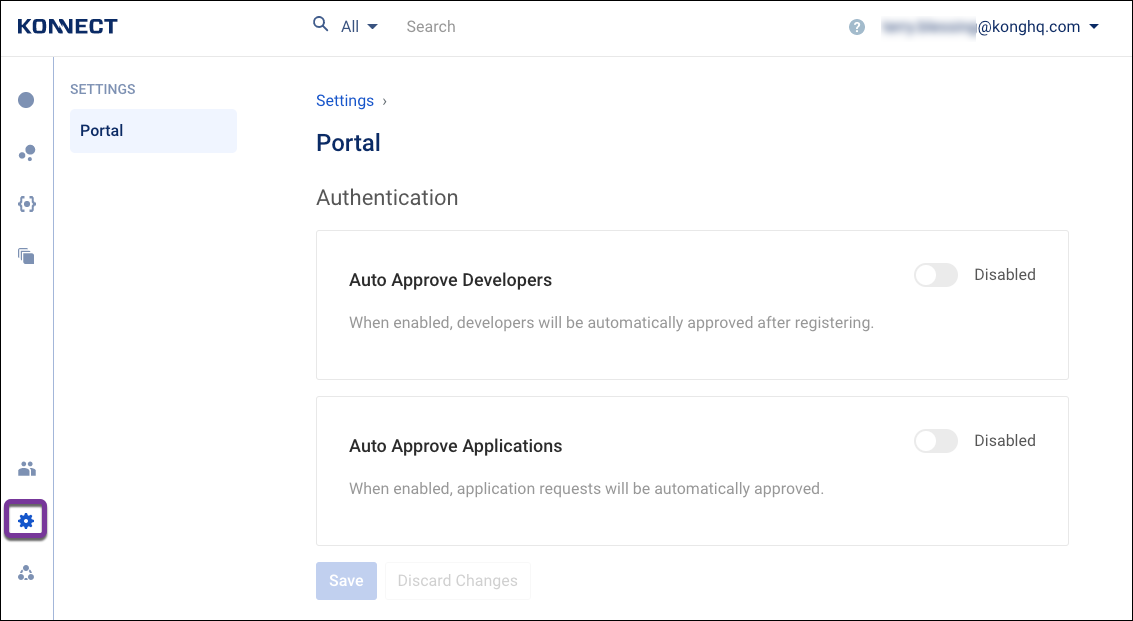
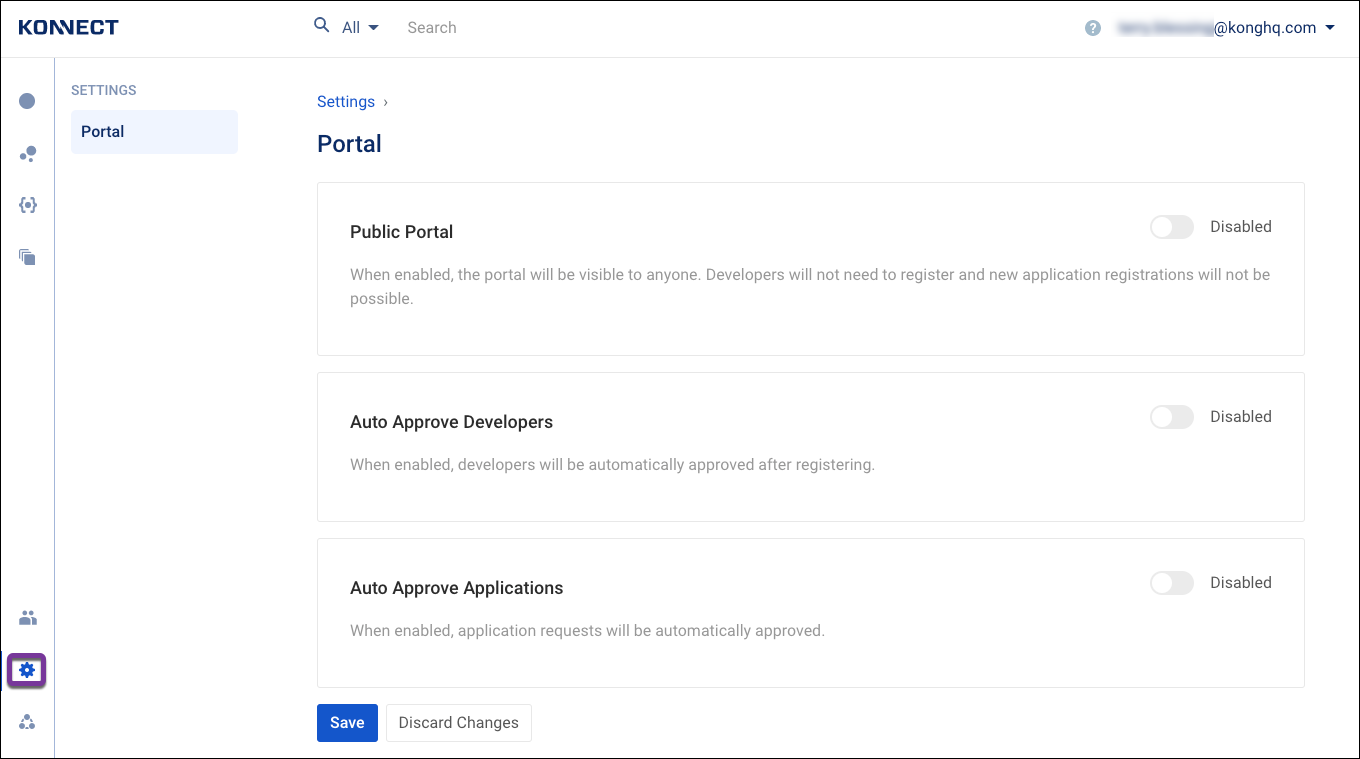
Konnect Public Dev Portal (#2574)
* update screenshot for new feature

* update nav, stub topic

* Update app/konnect/dev-portal/administrators/public-portal.md

* Lena feedback

* Jason info from slack

diff --git a/app/konnect/dev-portal/administrators/public-portal.md b/app/konnect/dev-portal/administrators/public-portal.md
@@ -1,0 +1,31 @@
+---
+title: Public Developer Portal
+no_version: true
+---
+
+Enable public access to your Dev Portal. With **Public Portal** enabled, anyone
+can access your Dev Portal without a login. Developers don't need to register
+for portal access and new application registrations aren't allowed.
+
+The Register options are not available in a public-facing portal.
+
+![Konnect Settings for a Public Portal](/assets/images/docs/konnect/konnect-portal-auto-approve.png)
+
+You can enable and disable public access to a portal 
+any time at your discretion.
+
+## Enable Public Access for a Dev Portal
+
+1. From the {{site.konnect_short_name}} menu, click the settings icon.
+
+2. In the **Public Portal** pane, click the toggle to **Enabled**.
+
+3. Click **Save**.
+
+## Disable Public Access for a Dev Portal
+
+1. From the {{site.konnect_short_name}} menu, click the settings icon.
+
+2. In the **Public Portal** pane, click the toggle to **Disabled**.
+
+3. Click **Save**.
